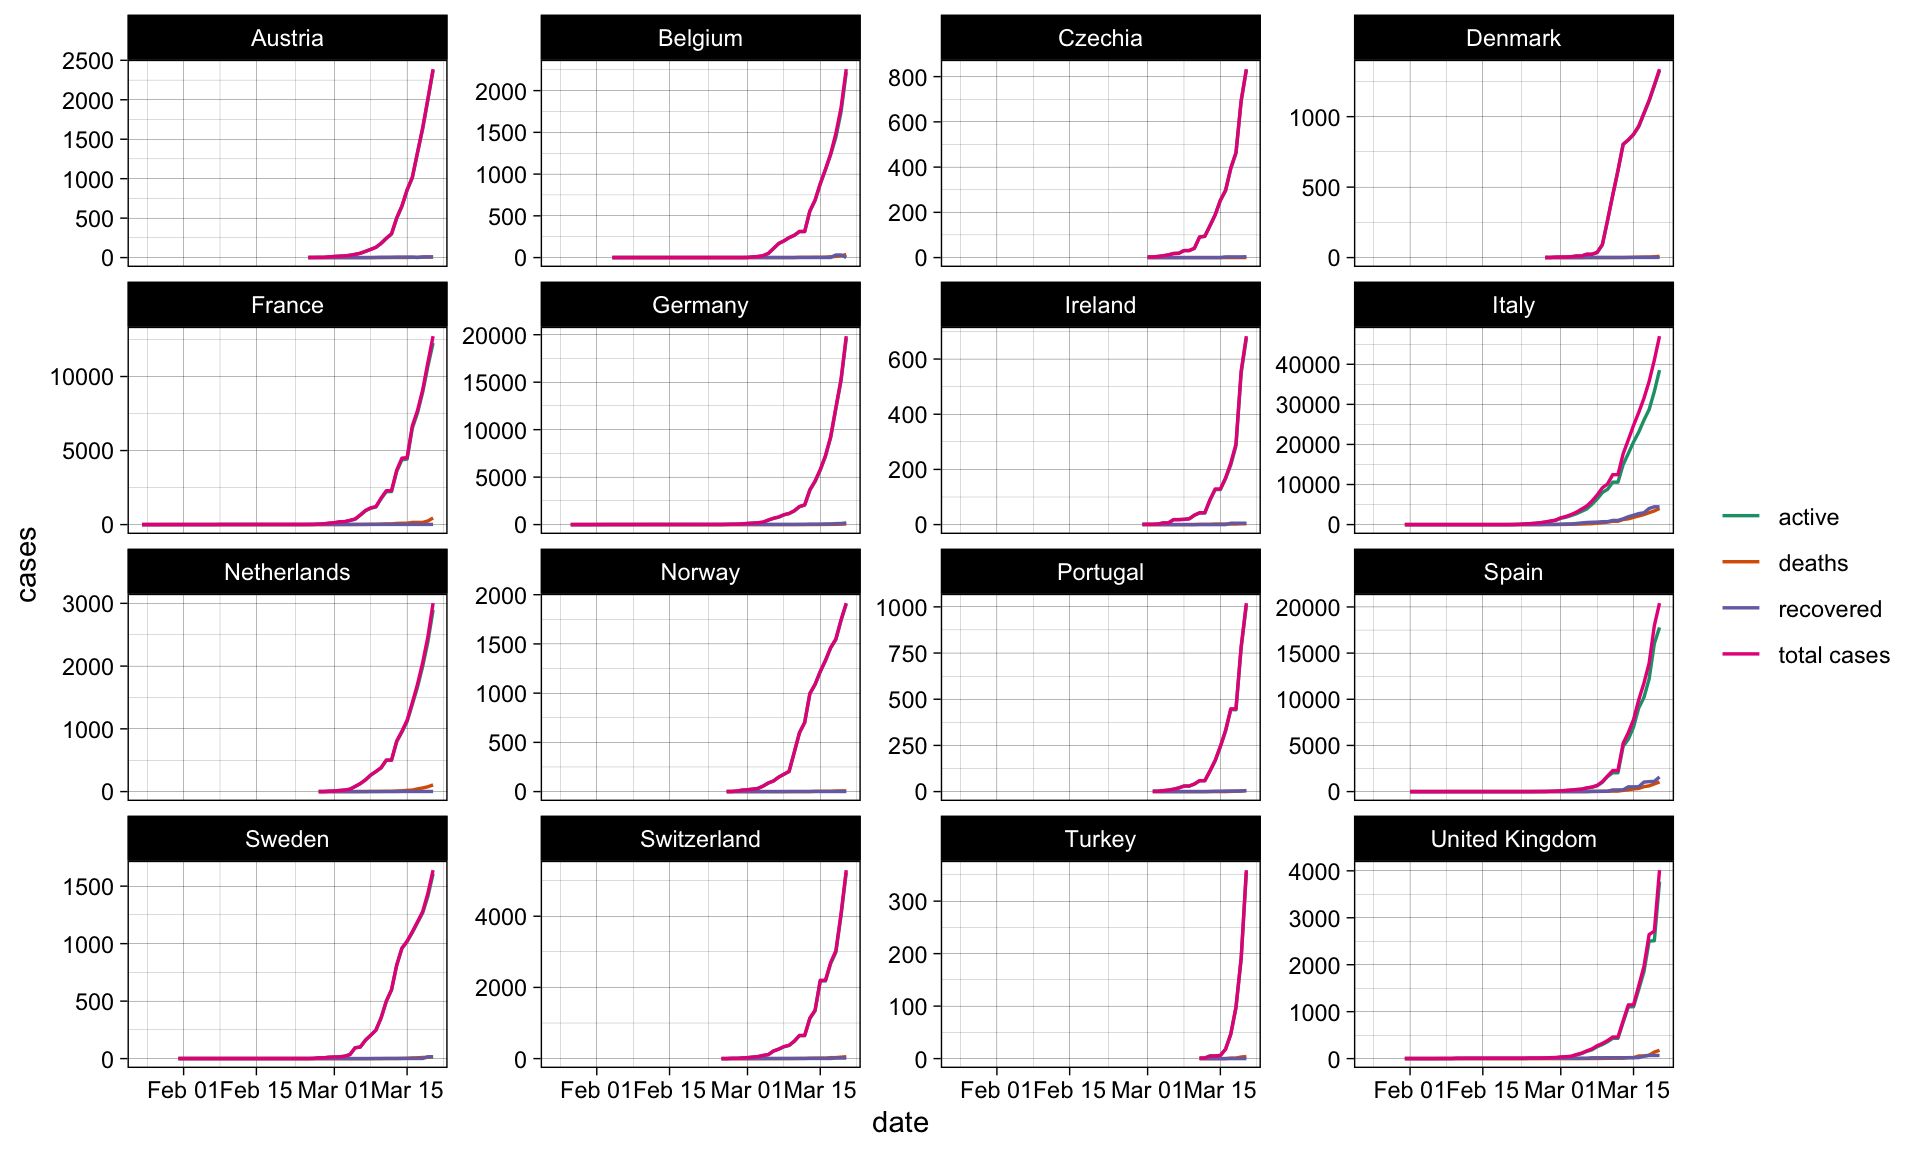
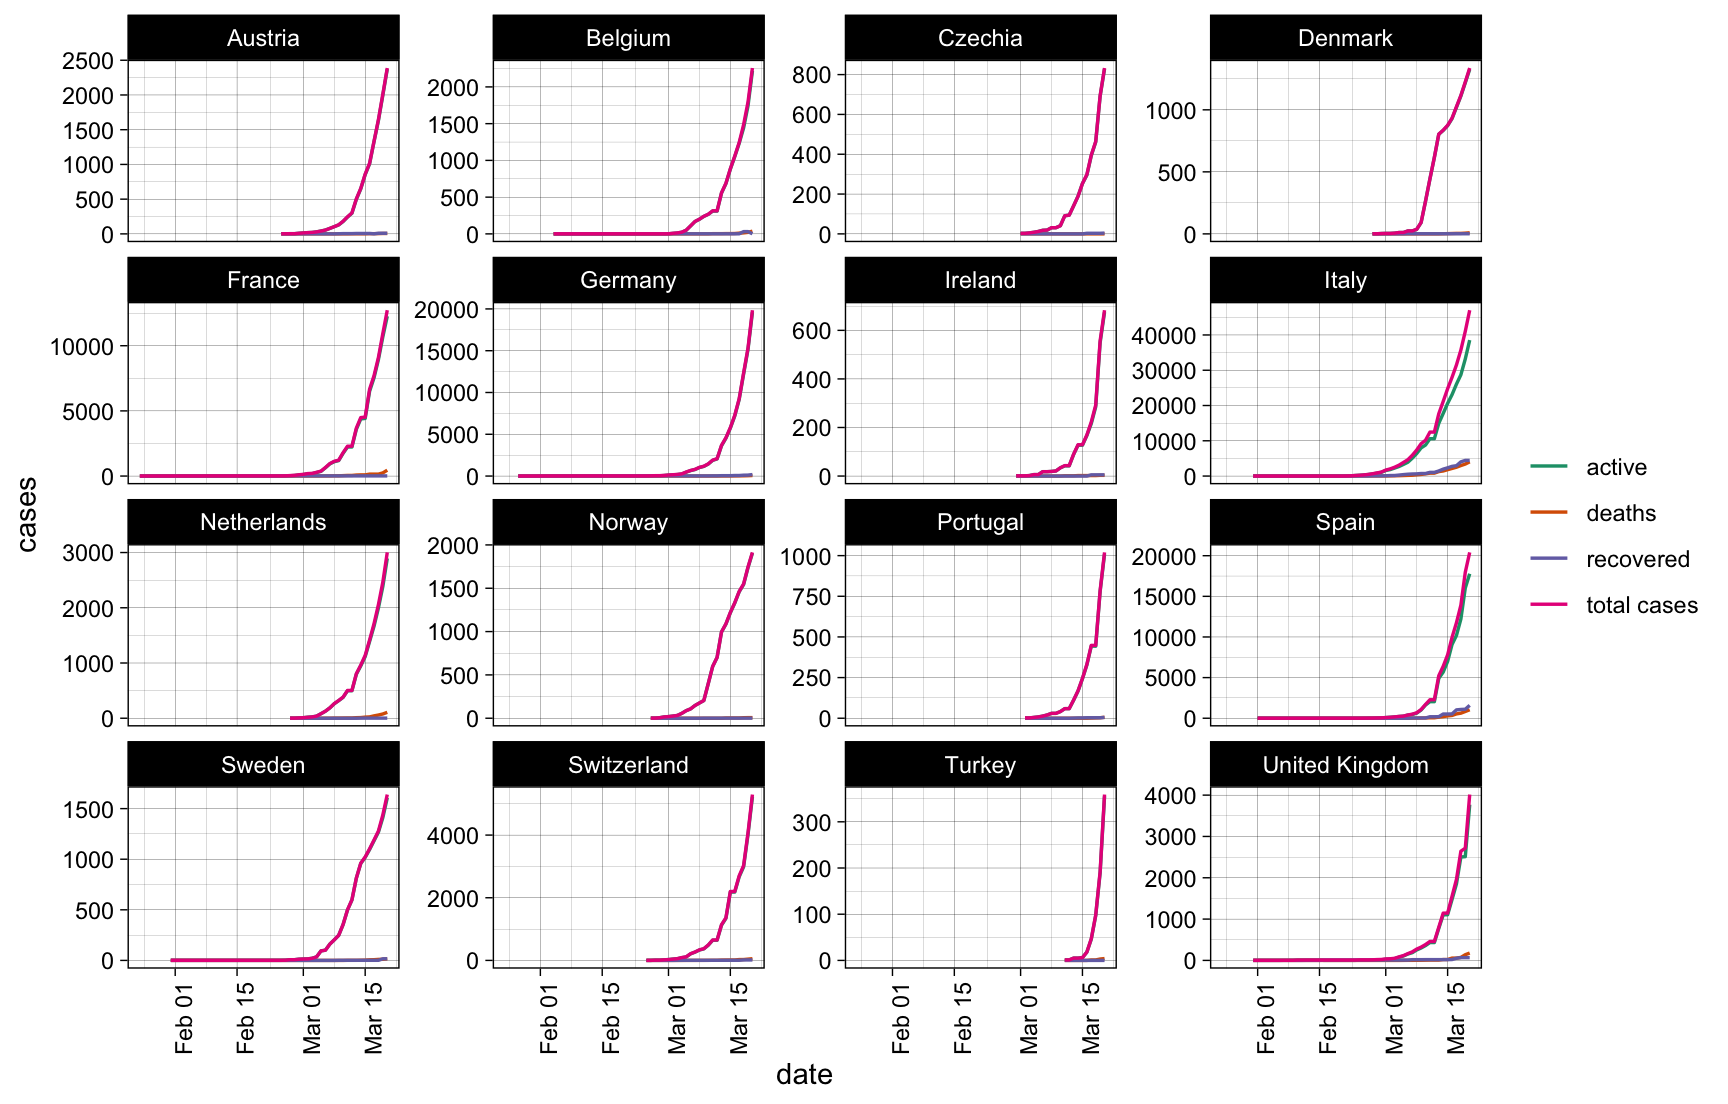
Update 21/03/2020

Changed region(s): [[0.0, 0.0, 1.0, 0.9547], [0.4375, 0.9547, 0.5, 0.9855]]

diff --git a/README.md b/README.md
@@ -59,7 +59,7 @@ emerge by comparing all four curves.
 ### Will these figures be updated?
 
 Yes, I will update these figures every morning. The last update was made
-on 2020-03-21 12:51:13. The data of the John Hopkins University,
+on 2020-03-21 12:56:38. The data of the John Hopkins University,
 however, is always updated at 23:59. What you see is hence the situation
 on 2020-03-20 at 23:59.
 
@@ -348,7 +348,8 @@ data %>%
   filter(`total cases` >= 1) %>%
   filter(country %in% europe) %>%
   gather(key, value, -country, -date) %>%
-  plot_graph(size = .6)
+  plot_graph(size = .6) +
+  theme(axis.text.x = element_text(angle = 90, hjust = 1))
 ```
 
 <img src="figures/europe-1.png" width="100%" />
@@ -356,8 +357,8 @@ data %>%
 ``` r
 
 ggsave("figures/plot_3.png",
-       width = 10,
-       height = 6)
+       width = 9,
+       height = 5.75)
 ```
 
 #### North, Middle and South America
